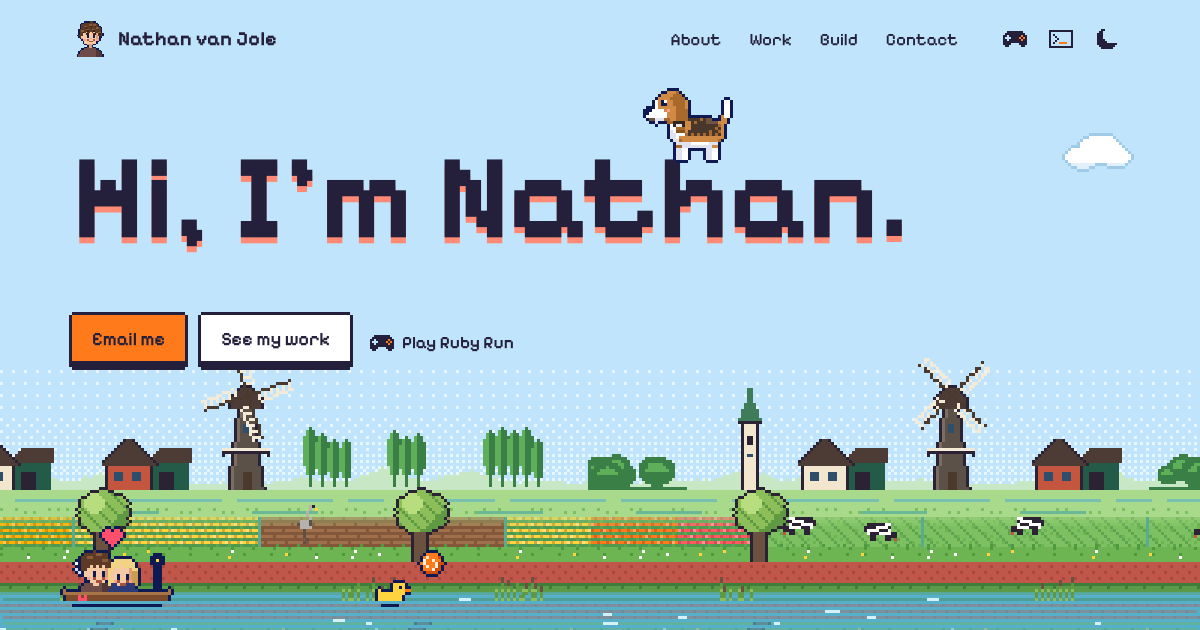
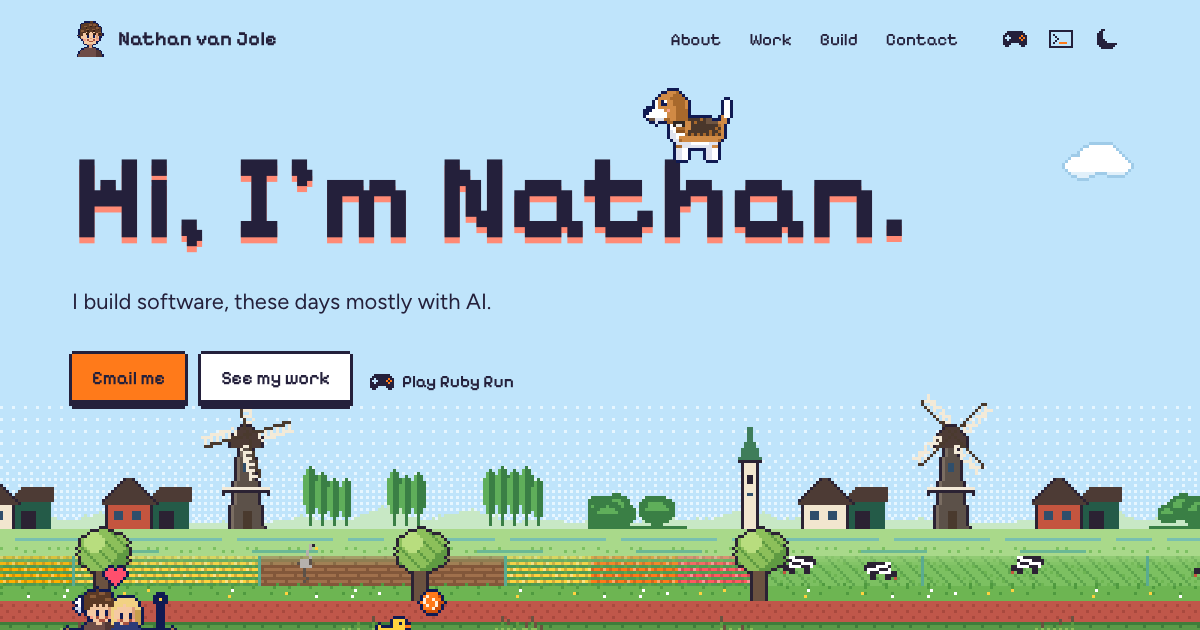
One plain line under the greeting
"I build software, these days mostly with AI."

diff --git a/src/content/home.ts b/src/content/home.ts
@@ -9,6 +9,7 @@ import type { Ability, AskQuestion, Link, Rich, WorkEntry } from './types';
 // ------------------------------------------------------------------ hero
 export const hero = {
   title: "Hi, I'm Nathan.",
+  lede: 'I build software, these days mostly with AI.' as Rich,
   actions: [
     { label: 'Email me', href: 'mailto:hi@nathanvj.com' },
     { label: 'See my work', href: '#work' },
